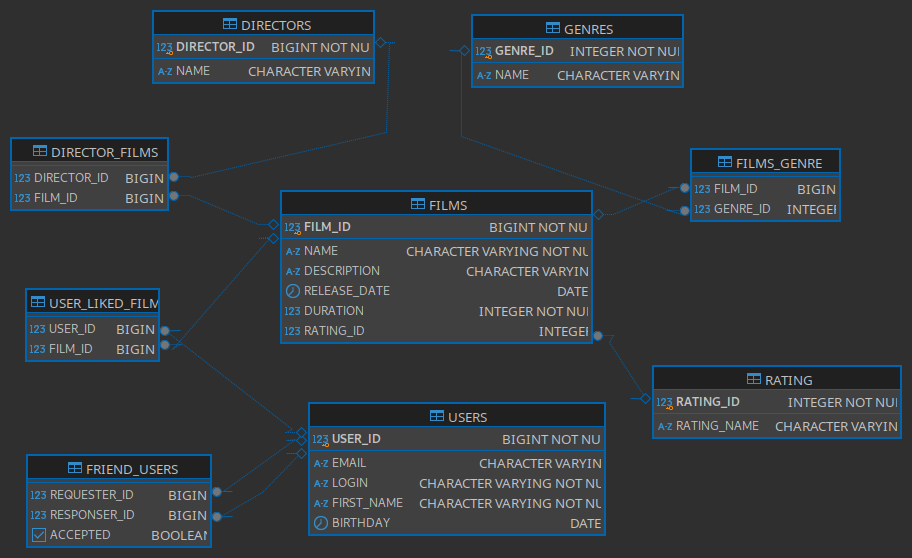
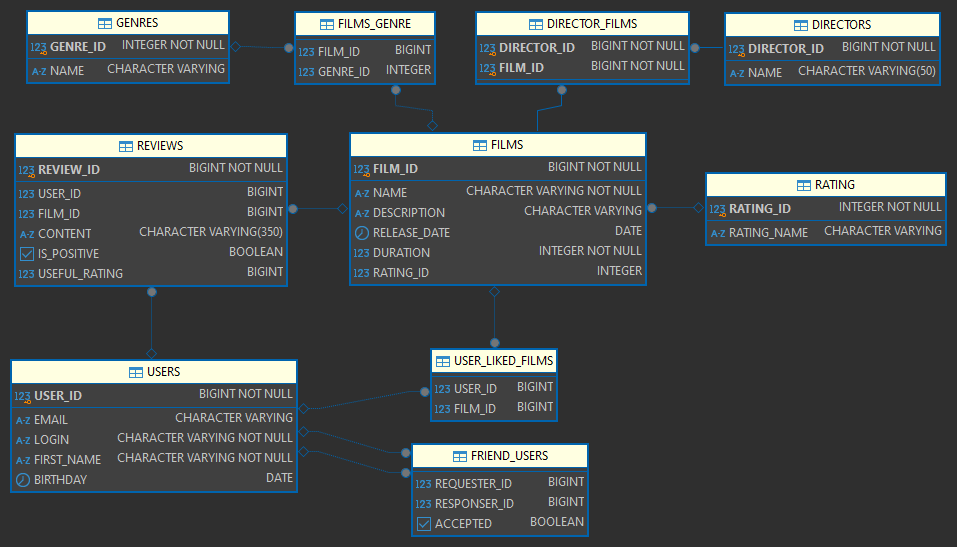
Filmorate #10 Добавлена модель Отзыва и соответствующая ей таблица в БД

Changed region(s): [[0.0, 0.0, 1.0, 0.9945], [0.0, 0.0, 0.4605, 0.1865], [0.7061, 0.6527, 1.0, 0.808]]

diff --git a/src/main/java/ru/yandex/practicum/filmorate/model/Review.java b/src/main/java/ru/yandex/practicum/filmorate/model/Review.java
@@ -1,0 +1,21 @@
+package ru.yandex.practicum.filmorate.model;
+
+import jakarta.validation.constraints.Min;
+import jakarta.validation.constraints.NotBlank;
+import jakarta.validation.constraints.NotNull;
+import lombok.Data;
+
+@Data
+public class Review {
+    private long id;
+    @NotNull
+    private Long userId;
+    @NotNull
+    private Long filmId;
+    @Min(value = 0L)
+    private long usefulRating;
+    @NotNull
+    private Boolean isPositive;
+    @NotBlank
+    private String content;
+}
